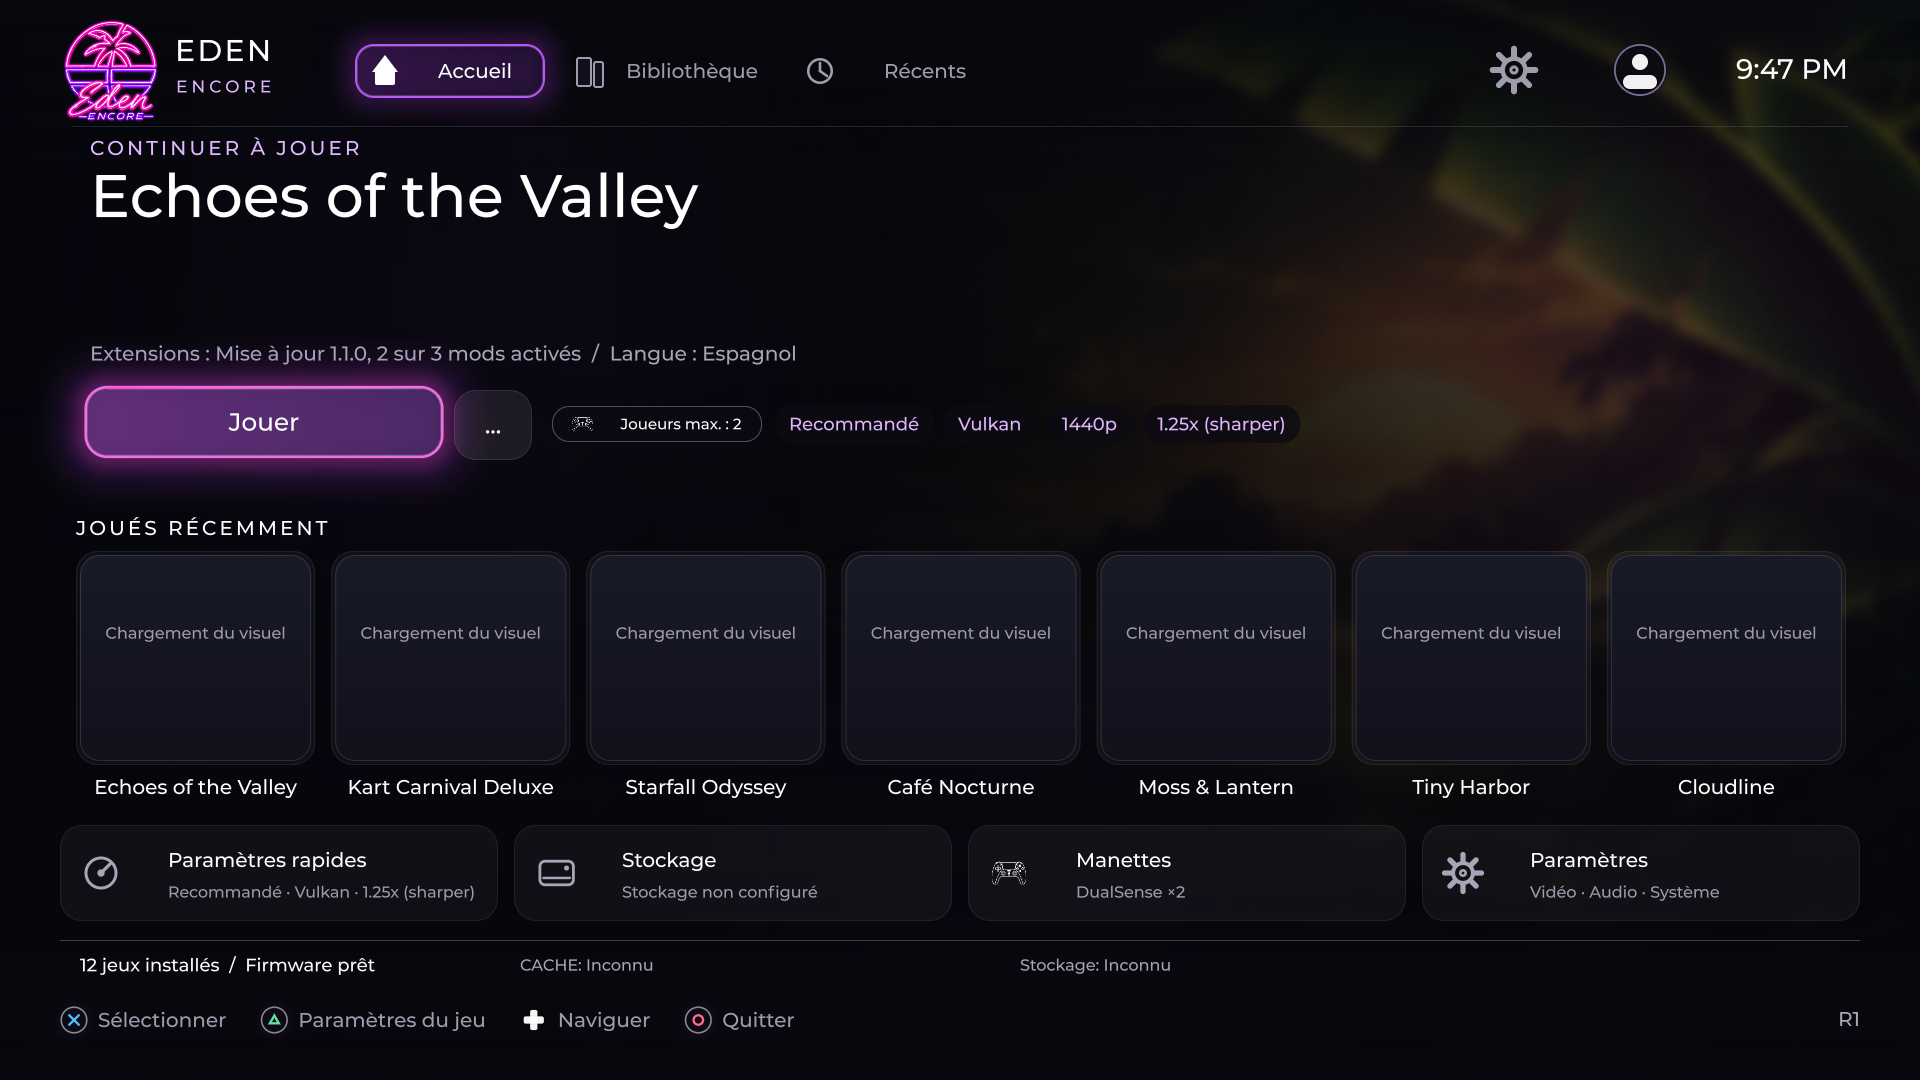
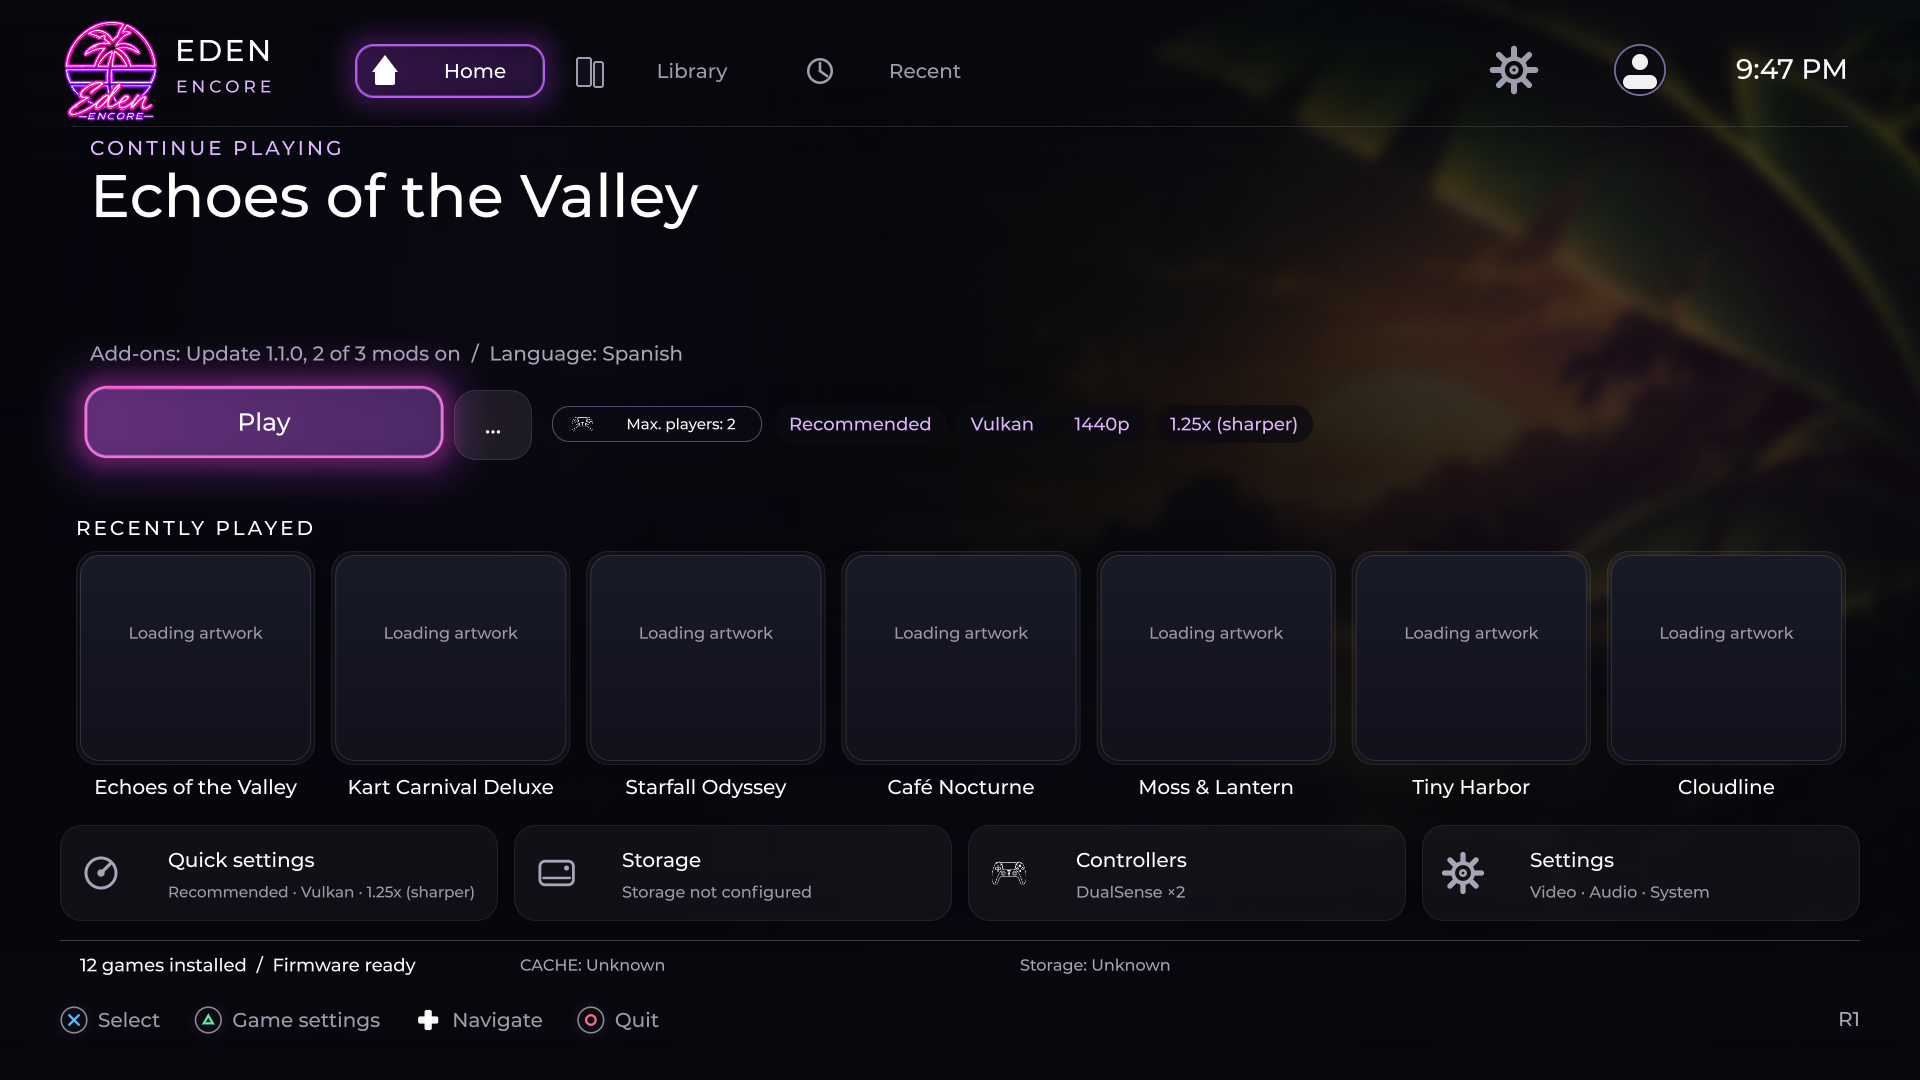
docs(ui): capture English Home with original Eden wallpaper [skip ci]

diff --git a/README.md b/README.md
@@ -24,7 +24,7 @@
   <a href="LICENSE"><img alt="License GPL-3.0-or-later" src="https://img.shields.io/badge/license-GPL--3.0--or--later-31313a"></a>
 </p>
 
-<p align="center"><img src="assets/screenshots/encore-home.png" alt="Real Eden Encore Home screen captured from the C++/OpenGL launcher" width="860"></p>
+<p align="center"><img src="assets/screenshots/encore-home.png" alt="Eden Encore Home in English, showing the original Eden wallpaper from the actual C++/OpenGL launcher" width="860"></p>
 
 > [!IMPORTANT]
 > **FC27 performance — live master tracker:** [F07 P0/P1/P2 priorities and sparse-JIT qualification](docs/FC27_F07_MASTER_TRACKER.md). [F01–F06 host exit gates](docs/FC27_EXIT_GATES_2026-10-22.md) are separate from on-console playability. Source-review totals are not remaining optimization counts.

diff --git a/README.fr.md b/README.fr.md
@@ -18,7 +18,7 @@
   </p>
 </div>
 
-<p align="center"><img src="assets/screenshots/encore-home.png" alt="Accueil réel d'Eden Encore capturé depuis le lanceur C++/OpenGL" width="860"></p>
+<p align="center"><img src="assets/screenshots/encore-home.png" alt="Eden Encore Home in English, showing the original Eden wallpaper from the actual C++/OpenGL launcher" width="860"></p>
 
 > [!IMPORTANT]
 > **FC27 — tableau maître :** [priorités F07 P0/P1/P2, sparse JIT et validation matérielle](docs/FC27_F07_MASTER_TRACKER.md). Les [critères F01–F06 validés sur hôte](docs/FC27_EXIT_GATES_2026-10-22.md) ne prouvent pas la jouabilité sur console. Le nombre de sources examinées ne mesure pas les optimisations restantes.
